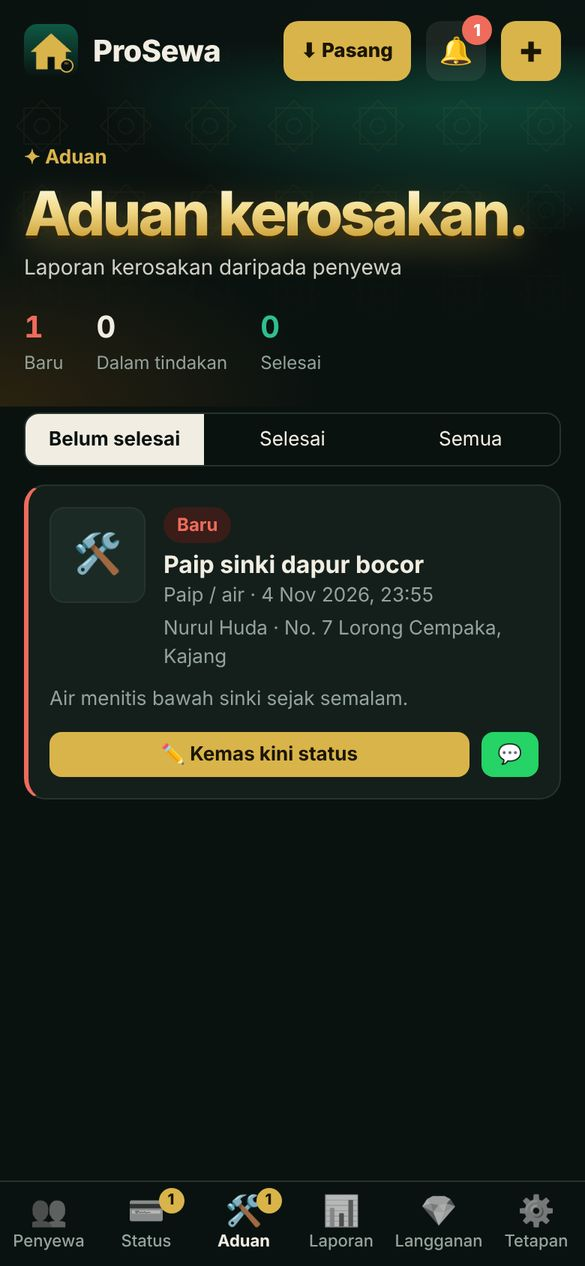
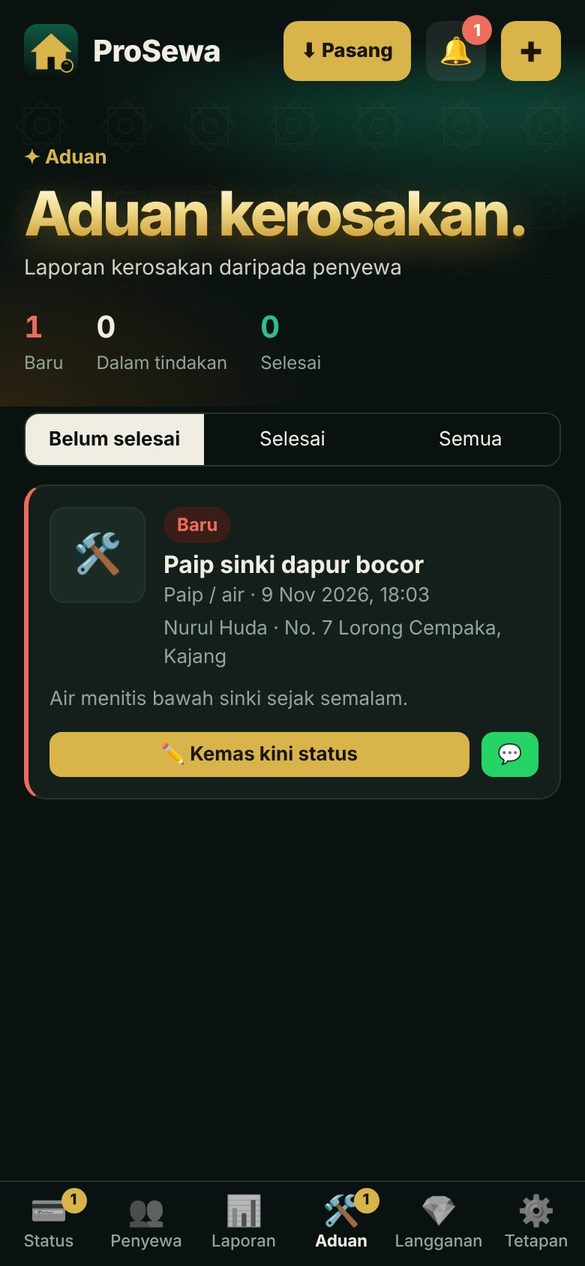
Manual, landing, captions & TikTok ads updated for latest features; What's new changelog popup in Settings (v2026.11.09)
Claude-Session: https://claude.ai/code/session_017f1VMKQwjxZcuJmQN7U4w8

diff --git a/index.html b/index.html
@@ -203,6 +203,7 @@ header .lang{margin-bottom:0}
 .finst{display:grid;grid-template-columns:1fr 1fr;gap:8px;margin:10px 0}.finst>div{background:var(--soft,rgba(255,255,255,.04));border:1px solid var(--line);border-radius:12px;padding:10px}
 .finst span{display:block;font-size:12px;color:var(--muted)}.finst b{display:block;font-size:17px;margin-top:2px}.finst b.g{color:var(--green)}.finst b.r{color:var(--red)}.finst em{font-style:normal;font-size:11.5px;color:var(--muted)}
 .finrep #taxrep{background:#fff;color:#111;border-radius:12px;padding:12px;font-size:12px;overflow-x:auto}
+.newdot{font-style:normal;background:var(--red,#e5484d);color:#fff;font:700 10.5px var(--f);padding:2px 7px;border-radius:999px;margin-left:8px;vertical-align:middle}
 header .hpill{height:38px;padding:0 14px;font-size:14px;border-radius:10px;display:inline-flex;align-items:center;gap:6px;flex:none}
 .pw{position:relative}.pw input{padding-right:50px}
 .pw .eye{position:absolute;right:4px;top:50%;transform:translateY(-50%);width:42px;height:38px;border:0;border-radius:8px;background:none;font-size:18px;cursor:pointer;opacity:.7}
@@ -472,7 +473,7 @@ const I18N_RX = [
   [/Kutipan (\d+)% daripada jangkaan/g, 'Collected $1% of expected'],
   [/Link (\S+) disalin/g, "$1's link copied"],
   [/Ditambah (\d+) hari/g, 'Added $1 days'],
-  [/Salam, /g, 'Hi, '],
+  [/Salam, /g, 'Hi, '], [/🆕 Apa yang baru · /g, "🆕 What's new · "],
   [/(\d+) penyewa, (\d+) rekod bayaran & resit, aduan, perbelanjaan, bil, rumah & bil berulang akan dipadam kekal\. Link penyewa lama tidak boleh dibuka lagi\./g, '$1 tenants, $2 payment & receipt records, requests, expenses, bills, properties & recurring bills will be permanently deleted. Old tenant links will stop working.'],
   [/PDF ada (\d+) halaman\. Hanya 2 halaman pertama disimpan\./g, 'The PDF has $1 pages. Only the first 2 pages are saved.'],
   [/Bil & utiliti (\d{4})/g, 'Bills & utilities $1'],
@@ -504,7 +505,7 @@ const I18N_RX = [
   [/Sewa (.+?) (RM [\d,.]+) belum dibayar\./g, 'Rent for $1 ($2) is unpaid.']
 ];
 Object.assign(I18N, {
-  'LAPORAN KUTIPAN SEWA': 'RENT COLLECTION REPORT', '💰 Laporan kewangan': '💰 Financial report', 'Tempoh': 'Period', 'Masuk (langganan)': 'Income (subscriptions)', 'Caj ToyyibPay': 'ToyyibPay fees', 'Bersih diterima': 'Net received', 'Belanja sistem': 'System expenses', 'Untung bersih': 'Net profit', 'bayaran': 'payments', 'rekod': 'records', 'auto': 'auto',
+  'LAPORAN KUTIPAN SEWA': 'RENT COLLECTION REPORT', 'BARU': 'NEW', '💰 Laporan kewangan': '💰 Financial report', 'Tempoh': 'Period', 'Masuk (langganan)': 'Income (subscriptions)', 'Caj ToyyibPay': 'ToyyibPay fees', 'Bersih diterima': 'Net received', 'Belanja sistem': 'System expenses', 'Untung bersih': 'Net profit', 'bayaran': 'payments', 'rekod': 'records', 'auto': 'auto',
   'Tukar kadar': 'Change rate', 'setiap transaksi berjaya.': 'per successful transaction.', '📊 Lihat laporan penuh': '📊 View full report', '+ Rekod belanja sistem': '+ Record system expense', 'LAPORAN KEWANGAN LANGGANAN': 'SUBSCRIPTION FINANCIAL REPORT', 'Senarai bayaran langganan': 'Subscription payments', 'Owner': 'Owner', 'Pakej': 'Plan', 'Rujukan': 'Reference', 'Caj': 'Fee', 'Bersih': 'Net', 'Belanja': 'Expenses', 'Bil.': 'No.',
   'Lanjutan percuma (RM0, tiada caj)': 'Free extensions (RM0, no fee)', 'Jenis': 'Type', 'Kategori': 'Category', 'Keterangan': 'Description', 'Kod promo': 'Promo code', 'Manual (Super Admin)': 'Manual (Super Admin)',
   'Caj ToyyibPay ialah anggaran berdasarkan kadar yang ditetapkan. Semak penyata ToyyibPay untuk angka sebenar.': 'ToyyibPay fees are estimates based on the set rate. Check your ToyyibPay statement for actual figures.',
@@ -773,7 +774,7 @@ const PLANS = [
   {id: 'yearly', name: 'Setahun', months: 12, price: 179.00, tag: 'Paling jimat'}
 ];
 const TRIAL_DAYS = 14;   // asal; Super Admin boleh ubah dalam panel #super (disimpan dalam config/app)
-const APP_VER = '2026.11.04';
+const APP_VER = '2026.11.09';
 const HEALTH_URL = 'https://asia-southeast1-kukusanmy.cloudfunctions.net/prosewaHealthNow';
 const PROMO_URL = 'https://asia-southeast1-kukusanmy.cloudfunctions.net/prosewaRedeemPromo';   // Cloud Function kod promo
 const TOYYIBPAY = {createBillUrl: 'https://asia-southeast1-kukusanmy.cloudfunctions.net/prosewaCreateBill'};   // Cloud Function (folder functions/)
@@ -1362,10 +1363,10 @@ const promoCaps = (l, code, days) => {
   const t = trialDays(), link = LANDING + (l === 'en' ? '?lang=en' : '');
   const cB = code ? `\n🎟 Kod promo: ${code} (+${days} hari percuma, sekali guna)` : '', cE = code ? `\n🎟 Promo code: ${code} (+${days} free days, single use)` : '';
   return l === 'en' ? [
-    ['WhatsApp / Facebook', `🏠 Own a rental house or room? Tired of chasing rent every month?\n\nProSewa helps landlords manage everything in one app:\n✅ Tenants upload payment proof, receipts are issued automatically\n🔔 Rent reminders & notifications straight to tenants' phones\n📊 Collection & tax reports (ready for e-Filing)\n🏠 Houses, rooms & vacancies, plus electricity, water & IWK bills\n📄 Tenancy, deposit & maintenance requests\n📱 Web + Android app, tenants don't need to log in\n\nTry it FREE for ${t} days 👉 ${link}${cE}`],
+    ['WhatsApp / Facebook', `🏠 Own a rental house or room? Tired of chasing rent every month?\n\nProSewa helps landlords manage everything in one app:\n✅ Tenants upload payment proof, you review & approve, receipts are issued automatically\n💰 Overpayments carried to next month automatically\n🔔 Rent reminders & notifications straight to tenants' phones\n📊 Collection & tax reports (ready for e-Filing)\n🏠 Houses, rooms & vacancies, plus electricity, water & IWK bills\n📄 Tenancy, deposit & maintenance requests\n📱 Web + Android app, tenants don't need to log in\n\nTry it FREE for ${t} days 👉 ${link}${cE}`],
     ['TikTok / Instagram', `Landlords, stop chasing rent on WhatsApp 😅 ProSewa: automatic receipts, rent reminders, vacant-room tracking, bills & tax reports. Free ${t}-day trial, link in bio 🏠${cE}\n\n#rentalproperty #landlordmalaysia #roomforrent #propertymalaysia #prosewa`],
     ['Ringkas / Short', `ProSewa: the rental management app. Automatic receipts, rent reminders & tax reports. Free for ${t} days: ${link}${cE}`]] : [
-    ['WhatsApp / Facebook', `🏠 Ada rumah / bilik sewa? Penat kejar sewa setiap bulan?\n\nProSewa bantu tuan rumah urus semuanya dalam satu app:\n✅ Penyewa muat naik bukti bayaran, resit keluar automatik\n🔔 Peringatan sewa & notifikasi terus ke phone penyewa\n📊 Laporan kutipan & cukai (sedia untuk e-Filing)\n🏠 Rumah, bilik & bilik kosong, serta bil elektrik, air & IWK\n📄 Kontrak, deposit & aduan kerosakan\n📱 Web + App Android, penyewa tak perlu login\n\nCuba PERCUMA ${t} hari 👉 ${link}${cB}`],
+    ['WhatsApp / Facebook', `🏠 Ada rumah / bilik sewa? Penat kejar sewa setiap bulan?\n\nProSewa bantu tuan rumah urus semuanya dalam satu app:\n✅ Penyewa muat naik bukti bayaran, anda semak & lulus, resit keluar automatik\n💰 Terlebih bayar dibawa ke bulan depan secara automatik\n🔔 Peringatan sewa & notifikasi terus ke phone penyewa\n📊 Laporan kutipan & cukai (sedia untuk e-Filing)\n🏠 Rumah, bilik & bilik kosong, serta bil elektrik, air & IWK\n📄 Kontrak, deposit & aduan kerosakan\n📱 Web + App Android, penyewa tak perlu login\n\nCuba PERCUMA ${t} hari 👉 ${link}${cB}`],
     ['TikTok / Instagram', `Tuan rumah, stop kejar sewa dalam WhatsApp 😅 ProSewa: resit automatik, peringatan sewa, bilik kosong, bil & laporan cukai. Percuma ${t} hari, link di bio 🏠${cB}\n\n#rumahsewa #tuanrumah #sewarumah #biliksewa #landlordmalaysia #prosewa`],
     ['Ringkas', `ProSewa: app urus rumah sewa. Resit automatik, peringatan sewa & laporan cukai. Percuma ${t} hari: ${link}${cB}`]];
 };
@@ -1665,7 +1666,8 @@ function oSettings() {
   const o = S.owner, s = S.settings;
   const perm = NPERM;
   return header('Tetapan', 'Tetapan.', o.name ? `${o.name}${o.phone ? ' · ' + o.phone : ''}` : 'Lengkapkan maklumat anda', {btns: ownerBtns()}) + `<div class="wrap"><div class="stack">
-    <div class="blk"><div class="card"><div class="acts" style="margin:0"><button class="btn" style="flex:1" data-act="manual">📘 Manual pengguna</button><button class="btn ghost" style="flex:1" data-act="reportForm">📮 Lapor masalah</button></div></div></div>
+    <div class="blk"><div class="card"><div class="acts" style="margin:0"><button class="btn" style="flex:1" data-act="manual">📘 Manual pengguna</button><button class="btn ghost" style="flex:1" data-act="reportForm">📮 Lapor masalah</button></div>
+      <button class="btn wide ghost" style="margin-top:8px;position:relative" data-act="whatsNew">🆕 Apa yang baru · v${APP_VER}${seenVer() !== APP_VER ? '<em class="newdot">BARU</em>' : ''}</button></div></div>
     <div class="blk"><div class="sec-h">Paparan</div><div class="card"><div class="switch">Bahasa ${langSeg()}</div><div class="switch">Tema ${themeSeg()}</div></div></div>
     <div class="blk"><div class="sec-h">Maklumat syarikat (untuk resit)</div><form class="card" data-form="company">
       <div class="logobox"><div id="logoPrev">${o.logo ? `<img src="${o.logo}" alt="logo">` : '<span class="muted">Tiada logo</span>'}</div>
@@ -1755,23 +1757,23 @@ function issueForm(id) {
 /* ===================== MANUAL PENGGUNA (owner) ===================== */
 const MANUAL = [
  ['🚀 Mula guna (5 minit)', '🚀 Getting started (5 minutes)',
-  '<ol><li>Pergi ke <b>Tetapan → Profil & maklumat bayaran</b>: isi nama, telefon, bank, no. akaun dan muat naik <b>QR DuitNow</b> anda. Penyewa nampak maklumat ini.</li><li>Di <b>Maklumat syarikat</b>: muat naik logo, nama & alamat syarikat, No. SSM/SST dan awalan no. resit. Ini muncul pada resit.</li><li>Di <b>Peringatan automatik</b>: pilih berapa hari sebelum tarikh bayar & jam notifikasi dihantar kepada penyewa.</li><li>Tekan <b>🔔 Aktifkan notifikasi phone</b>, kemudian <b>🧪 Uji notifikasi</b>.</li></ol>',
-  '<ol><li>Go to <b>Settings → Profile & payment details</b>: enter your name, phone, bank, account number and upload your <b>DuitNow QR</b>. Tenants see these details.</li><li>Under <b>Company details</b>: upload your logo, company name & address, SSM/SST numbers and receipt prefix. These appear on receipts.</li><li>Under <b>Automatic reminders</b>: choose how many days before the due date & what time tenants are notified.</li><li>Tap <b>🔔 Enable phone notifications</b>, then <b>🧪 Test notification</b>.</li></ol>'],
+  '<ol><li>Pergi ke <b>Tetapan → Profil & maklumat bayaran</b>: isi nama, telefon, bank, no. akaun dan muat naik <b>QR DuitNow</b> anda. Penyewa nampak maklumat ini.</li><li>Di <b>Maklumat syarikat</b>: muat naik logo, nama & alamat syarikat, No. SSM/SST dan awalan no. resit. Ini muncul pada resit.</li><li>Di <b>Peringatan automatik</b>: pilih berapa hari sebelum tarikh bayar & jam notifikasi dihantar kepada penyewa.</li><li>Tekan <b>🔔 Aktifkan notifikasi phone</b>, kemudian <b>🧪 Uji notifikasi</b>.</li></ol><p>Lepas setiap kemas kini, tekan <b>🆕 Apa yang baru</b> di Tetapan untuk lihat perubahan.</p>',
+  '<ol><li>Go to <b>Settings → Profile & payment details</b>: enter your name, phone, bank, account number and upload your <b>DuitNow QR</b>. Tenants see these details.</li><li>Under <b>Company details</b>: upload your logo, company name & address, SSM/SST numbers and receipt prefix. These appear on receipts.</li><li>Under <b>Automatic reminders</b>: choose how many days before the due date & what time tenants are notified.</li><li>Tap <b>🔔 Enable phone notifications</b>, then <b>🧪 Test notification</b>.</li></ol><p>After every update, tap <b>🆕 What\'s new</b> in Settings to see the changes.</p>'],
  ['👥 Tambah penyewa & hantar link', '👥 Add tenants & send their link',
-  '<ol><li>Tekan butang <b>+</b> di atas. Isi nama, telefon, alamat (rumah / bilik), sewa, deposit, tarikh bayar, tarikh mula & <b>tamat kontrak</b>.</li><li>Selepas simpan, tekan <b>Hantar link via WhatsApp</b>. Penyewa cuma buka link itu, <b>tiada login</b>.</li><li>Penyewa Android boleh pasang <b>APK ProSewa Penyewa</b> dan tampal link sekali sahaja.</li><li>Link tersebar? Tekan 🔗 → <b>Tukar link</b>. Link lama terus tidak boleh digunakan.</li></ol>',
-  '<ol><li>Tap the <b>+</b> button at the top. Enter name, phone, address (house / room), rent, deposit, due day, start date & <b>tenancy end</b>.</li><li>After saving, tap <b>Send link via WhatsApp</b>. Tenants just open the link, <b>no login</b>.</li><li>Android tenants can install the <b>ProSewa Tenant APK</b> and paste the link once.</li><li>Link leaked? Tap 🔗 → <b>Change link</b>. The old link stops working immediately.</li></ol>'],
+  '<ol><li>Tekan butang <b>+</b> di atas. Isi nama, telefon, alamat (rumah / bilik), sewa, deposit, tarikh bayar, tarikh mula & <b>tamat kontrak</b>.</li><li>Selepas simpan, tekan <b>Hantar link via WhatsApp</b>. Penyewa cuma buka link itu, <b>tiada login</b>.</li><li>Tab <b>Penyewa</b> tunjuk senarai ringkas dengan status besar <b>DIBAYAR / BELUM BAYAR</b>. Tekan nama penyewa untuk butiran, sejarah 6 bulan, link, edit, perbaharui & tamatkan sewa.</li><li>Penyewa Android boleh pasang <b>APK ProSewa Penyewa</b> dan tampal link sekali sahaja.</li><li>Link tersebar? Buka penyewa → <b>Tukar link</b>. Link lama terus tidak boleh digunakan.</li></ol>',
+  '<ol><li>Tap the <b>+</b> button at the top. Enter name, phone, address (house / room), rent, deposit, due day, start date & <b>tenancy end</b>.</li><li>After saving, tap <b>Send link via WhatsApp</b>. Tenants just open the link, <b>no login</b>.</li><li>The <b>Tenants</b> tab shows a compact list with a big <b>PAID / UNPAID</b> status. Tap a tenant for details, 6-month history, link, edit, renew & end tenancy.</li><li>Android tenants can install the <b>ProSewa Tenant APK</b> and paste the link once.</li><li>Link leaked? Open the tenant → <b>Change link</b>. The old link stops working immediately.</li></ol>'],
  ['🏘 Rumah & bilik (Hartanah)', '🏘 Houses & rooms (Properties)',
   '<ol><li>Di tab <b>Penyewa</b>, tekan <b>🏠 Hartanah</b> → <b>Tambah rumah</b>. Pilih <b>Sewa bilik</b> (senaraikan bilik & sewa) atau <b>Seluruh rumah / unit</b>.</li><li>Bilik tanpa penyewa ditanda <b>kosong</b>, dengan bilangan hari dan sewa yang hilang sebulan. Tekan <b>+ Masukkan penyewa</b> terus dari bilik itu.</li><li>Penyewa sedia ada: tekan ✏ Edit dan pilih <b>Rumah / bilik</b>.</li><li>Bila sewa ditamatkan (🚪), bilik terus jadi kosong. Laporan cukai dikira ikut rumah.</li></ol><p>Pilihan sahaja: penyewa tanpa rumah tetap berfungsi seperti biasa.</p>',
   '<ol><li>In the <b>Tenants</b> tab, tap <b>🏠 Properties</b> → <b>Add property</b>. Choose <b>Room rental</b> (list the rooms & rent) or <b>Whole house / unit</b>.</li><li>Rooms without a tenant are marked <b>vacant</b>, with the number of days and the rent lost per month. Tap <b>+ Add tenant</b> straight from that room.</li><li>Existing tenants: tap ✏ Edit and choose a <b>Property / room</b>.</li><li>When a tenancy ends (🚪), the room becomes vacant automatically. The tax report is grouped by property.</li></ol><p>Optional: tenants without a property keep working as usual.</p>'],
  ['💳 Terima bayaran & resit', '💳 Payments & receipts',
-  '<ol><li>Penyewa bayar ke akaun / QR anda dan muat naik slip (<b>gambar atau PDF</b> dari app bank). Anda dapat notifikasi <b>🧾 Bukti bayaran baru</b>.</li><li>Buka tab <b>Status</b> → semak gambar → <b>✓ Lulus & hantar resit</b> atau <b>Tolak</b> (dengan sebab).</li><li>Penyewa bayar tunai / tak guna app? Tekan <b>💵 Rekod bayaran</b> pada kad penyewa dan muat naik slip sendiri (gambar atau PDF).</li><li>Resit boleh disimpan sebagai PDF atau dihantar melalui WhatsApp. No. resit berturutan dan tidak berulang.</li><li>Tersilap? Buka resit → <b>Batal resit</b> (dengan sebab). Resit sah tidak boleh dipadam, untuk rekod audit.</li></ol>',
-  '<ol><li>Tenants pay to your account / QR and upload the slip (<b>image or PDF</b> from their bank app). You get a <b>🧾 New payment proof</b> notification.</li><li>Open the <b>Status</b> tab → check the image → <b>✓ Approve & send receipt</b> or <b>Reject</b> (with a reason).</li><li>Tenant pays cash / doesn\'t use the app? Tap <b>💵 Record payment</b> on the tenant card and upload the slip yourself (image or PDF).</li><li>Receipts can be saved as PDF or sent via WhatsApp. Receipt numbers run in sequence and are never reused.</li><li>Made a mistake? Open the receipt → <b>Void receipt</b> (with a reason). Valid receipts cannot be deleted, for audit purposes.</li></ol>'],
+  '<ol><li>Penyewa bayar ke akaun / QR anda dan muat naik slip (<b>gambar atau PDF</b> dari app bank). Anda dapat notifikasi <b>🧾 Bukti bayaran baru</b>.</li><li>Buka tab <b>Status</b> (tab pertama) → tekan <b>🔍 Semak bayaran</b>. Semak bukti, jumlah berbanding sewa, kaedah & rujukan. Tanda <b>Saya telah semak bukti ini</b>, kemudian <b>Luluskan</b>, atau <b>Tolak</b> (dengan sebab).</li><li>Penyewa tak guna app dan cuma hantar bukti kepada anda? Di tab Status, tekan <b>📝 Bayaran manual</b> pada penyewa itu, pilih <b>Kaedah bayaran penyewa</b> (Pindahan bank, Touch \'n Go, Deposit tunai bank, Tunai) dan muat naik slip.</li><li><b>Terbayar lebih?</b> Lebihan dibawa ke bulan depan secara automatik sebagai <b>kredit</b>. Penyewa nampak nota bahawa lebihan akan ditolak bulan depan.</li><li>Resit boleh disimpan sebagai PDF atau dihantar melalui WhatsApp. No. resit berturutan dan tidak berulang.</li><li>Tersilap? Buka resit → <b>Batal resit</b> (dengan sebab). Resit sah tidak boleh dipadam, untuk rekod audit.</li></ol>',
+  '<ol><li>Tenants pay to your account / QR and upload the slip (<b>image or PDF</b> from their bank app). You get a <b>🧾 New payment proof</b> notification.</li><li>Open the <b>Status</b> tab (first tab) → tap <b>🔍 Review payment</b>. Check the proof, the amount against the rent, the method & reference. Tick <b>I have checked this proof</b>, then <b>Approve</b>, or <b>Reject</b> (with a reason).</li><li>Tenant doesn\'t use the app and just sends you proof? In the Status tab, tap <b>📝 Manual payment</b> for that tenant, choose the <b>Payment method by tenant</b> (Bank transfer, Touch \'n Go, Cash bank deposit, Cash by hand) and upload the slip.</li><li><b>Overpaid?</b> The extra is carried to next month automatically as <b>credit</b>. The tenant sees a note that it will be deducted next month.</li><li>Receipts can be saved as PDF or sent via WhatsApp. Receipt numbers run in sequence and are never reused.</li><li>Made a mistake? Open the receipt → <b>Void receipt</b> (with a reason). Valid receipts cannot be deleted, for audit purposes.</li></ol>'],
  ['🔔 Peringatan & notifikasi', '🔔 Reminders & notifications',
-  '<ul><li><b>Automatik:</b> penyewa dapat peringatan sebelum tarikh bayar dan bila sewa tertunggak (ikut Tetapan).</li><li><b>Manual:</b> di tab Status, tekan <b>🔔 Ingatkan</b> (terus) atau <b>⏰ Jadual</b> (pilih tarikh & masa).</li><li>Notifikasi sampai walaupun app ditutup. Ikon app tunjuk <b>lencana</b> bila ada perkara belum disemak.</li><li>Tiada notifikasi? Tetapan → <b>🧪 Uji notifikasi</b>, dan pastikan notifikasi ProSewa dibenarkan dalam Tetapan phone.</li></ul>',
-  '<ul><li><b>Automatic:</b> tenants get a reminder before the due date and when rent is overdue (based on Settings).</li><li><b>Manual:</b> in the Status tab, tap <b>🔔 Remind</b> (now) or <b>⏰ Schedule</b> (pick a date & time).</li><li>Notifications arrive even when the app is closed. The app icon shows a <b>badge</b> when something needs your attention.</li><li>No notifications? Settings → <b>🧪 Test notification</b>, and make sure ProSewa notifications are allowed in your phone settings.</li></ul>'],
+  '<ul><li><b>Automatik:</b> penyewa dapat peringatan sebelum tarikh bayar dan bila sewa tertunggak (ikut Tetapan).</li><li><b>Manual:</b> di tab Status, tekan <b>🔔 Ingatkan</b> pada penyewa yang belum bayar. Notifikasi terus dihantar ke phone penyewa.</li><li>Notifikasi sampai walaupun app ditutup. Ikon app tunjuk <b>lencana</b> bila ada perkara belum disemak.</li><li>Tiada notifikasi? Tetapan → <b>🧪 Uji notifikasi</b>, dan pastikan notifikasi ProSewa dibenarkan dalam Tetapan phone.</li></ul>',
+  '<ul><li><b>Automatic:</b> tenants get a reminder before the due date and when rent is overdue (based on Settings).</li><li><b>Manual:</b> in the Status tab, tap <b>🔔 Remind</b> on an unpaid tenant. A notification goes straight to their phone.</li><li>Notifications arrive even when the app is closed. The app icon shows a <b>badge</b> when something needs your attention.</li><li>No notifications? Settings → <b>🧪 Test notification</b>, and make sure ProSewa notifications are allowed in your phone settings.</li></ul>'],
  ['📄 Kontrak & deposit', '📄 Tenancy & deposit',
-  '<ul><li>Isi <b>Tamat kontrak</b> pada penyewa. 30 hari sebelum tamat, amaran keluar di tab Penyewa dan notifikasi dihantar.</li><li>Tekan <b>📄 Perbaharui</b>: pilih tarikh tamat baru & sewa baru (berkuat kuasa bulan depan).</li><li>Penyewa keluar? Tekan <b>🚪</b> → isi tarikh keluar, tolak tunggakan & potongan (pembersihan, kerosakan, bil). Sistem kira baki deposit dan jana <b>Penyata Deposit</b> yang penyewa boleh lihat.</li></ul>',
-  '<ul><li>Fill in <b>Tenancy end</b> for each tenant. 30 days before it ends, a warning appears in the Tenants tab and notifications are sent.</li><li>Tap <b>📄 Renew</b>: choose the new end date & new rent (applies from next month).</li><li>Tenant moving out? Tap <b>🚪</b> → enter the move-out date, deduct arrears & charges (cleaning, damage, bills). The system calculates the deposit balance and creates a <b>Deposit Statement</b> the tenant can view.</li></ul>'],
+  '<ul><li>Isi <b>Tamat kontrak</b> pada penyewa. 30 hari sebelum tamat, amaran keluar di tab Penyewa dan notifikasi dihantar.</li><li>Buka penyewa → <b>📄 Perbaharui</b>: pilih tarikh tamat baru & sewa baru (berkuat kuasa bulan depan).</li><li>Penyewa keluar? Buka penyewa → <b>🚪 Tamatkan sewa</b> → isi tarikh keluar, tolak tunggakan & potongan (pembersihan, kerosakan, bil). Sistem kira baki deposit dan jana <b>Penyata Deposit</b> yang penyewa boleh lihat.</li></ul>',
+  '<ul><li>Fill in <b>Tenancy end</b> for each tenant. 30 days before it ends, a warning appears in the Tenants tab and notifications are sent.</li><li>Open the tenant → <b>📄 Renew</b>: choose the new end date & new rent (applies from next month).</li><li>Tenant moving out? Open the tenant → <b>🚪 End tenancy</b> → enter the move-out date, deduct arrears & charges (cleaning, damage, bills). The system calculates the deposit balance and creates a <b>Deposit Statement</b> the tenant can view.</li></ul>'],
  ['🛠 Aduan kerosakan', '🛠 Maintenance requests',
   '<ul><li>Penyewa hantar aduan (kategori, penerangan, gambar) dari tab <b>Aduan</b> di app mereka.</li><li>Anda dapat notifikasi. Buka tab <b>Aduan</b> → <b>Kemas kini status</b> (Dalam tindakan / Selesai) dan tulis nota, contohnya tarikh tukang datang.</li><li>Penyewa dimaklumkan setiap kali status berubah.</li></ul>',
   '<ul><li>Tenants send requests (category, description, photo) from the <b>Requests</b> tab in their app.</li><li>You get notified. Open the <b>Requests</b> tab → <b>Update status</b> (In progress / Resolved) and add a note, e.g. when the repairer will come.</li><li>Tenants are notified every time the status changes.</li></ul>'],
@@ -1779,15 +1781,76 @@ const MANUAL = [
   '<ul><li><b>Kutipan sewa:</b> jangkaan vs diterima setiap bulan, tunggakan ikut penyewa. Simpan sebagai PDF atau CSV (Excel).</li><li><b>Cukai & Perbelanjaan:</b> tekan <b>+ Perbelanjaan</b> untuk rekod cukai pintu, cukai tanah, insurans, pembaikan dan lain-lain (boleh lampir resit).</li><li><b>💡 Bil & utiliti:</b> tekan <b>Rekod bil bulan ini</b> untuk elektrik, air, IWK, internet sekali gus ikut rumah. Bil tetap (IWK, maintenance, internet) tetapkan sekali di <b>Bil berulang</b>, dan sistem rekod setiap bulan secara automatik.</li><li>Angka <b>Pendapatan sewa bersih</b> ialah rujukan untuk e-Filing LHDN. Sahkan perbelanjaan yang dibenarkan dengan LHDN / ejen cukai.</li></ul>',
   '<ul><li><b>Rent collection:</b> expected vs received each month, arrears by tenant. Save as PDF or CSV (Excel).</li><li><b>Tax & Expenses:</b> tap <b>+ Expense</b> to record assessment tax, quit rent, insurance, repairs and more (you can attach receipts).</li><li><b>💡 Bills & utilities:</b> tap <b>Record this month\'s bills</b> to enter electricity, water, IWK and internet at once, per property. Set fixed bills (IWK, maintenance, internet) once under <b>Recurring bills</b> and the system records them every month automatically.</li><li>The <b>Net rental income</b> figure is a reference for LHDN e-Filing. Confirm allowable expenses with LHDN / your tax agent.</li></ul>'],
  ['💎 Langganan & kod promo', '💎 Subscription & promo codes',
-  '<ul><li>Tab <b>Langganan</b> tunjuk baki hari. Pilih pakej dan bayar melalui ToyyibPay (FPX / DuitNow). Hari baru disambung selepas tarikh tamat semasa.</li><li>Ada kod promo? Tampal di <b>🎟 Ada kod promo?</b> dan tekan <b>Guna</b>. Setiap kod sekali guna.</li><li>Jika langganan tamat, anda dan penyewa tidak dapat buka app sehingga bayaran dibuat. Data anda kekal selamat.</li></ul>',
-  '<ul><li>The <b>Subscription</b> tab shows the days left. Choose a plan and pay via ToyyibPay (FPX / DuitNow). New days are added after the current end date.</li><li>Have a promo code? Paste it under <b>🎟 Have a promo code?</b> and tap <b>Apply</b>. Each code can be used once.</li><li>If the subscription ends, you and your tenants cannot open the app until payment is made. Your data stays safe.</li></ul>'],
+  '<ul><li>Tab <b>Langganan</b> tunjuk baki hari. Pilih pakej dan bayar melalui ToyyibPay (FPX online banking atau imbas DuitNow QR). Hari baru disambung selepas tarikh tamat semasa.</li><li>Ada kod promo? Tampal di <b>🎟 Ada kod promo?</b> dan tekan <b>Guna</b>. Setiap kod sekali guna.</li><li>Jika langganan tamat, anda dan penyewa tidak dapat buka app sehingga bayaran dibuat. Data anda kekal selamat.</li></ul>',
+  '<ul><li>The <b>Subscription</b> tab shows the days left. Choose a plan and pay via ToyyibPay (FPX online banking or scan DuitNow QR). New days are added after the current end date.</li><li>Have a promo code? Paste it under <b>🎟 Have a promo code?</b> and tap <b>Apply</b>. Each code can be used once.</li><li>If the subscription ends, you and your tenants cannot open the app until payment is made. Your data stays safe.</li></ul>'],
  ['📱 App Android, tablet & laptop', '📱 Android app, tablet & laptop',
   '<ul><li>Muat turun <b>ProSewa Admin</b> (owner) dan <b>ProSewa Penyewa</b> di prosewa.web.app/download.html. Pasang terus atas versi lama untuk kemas kini.</li><li>Di laptop / iPhone: buka prosewa.web.app dan tekan <b>⬇ Pasang</b>.</li><li>Dalam APK, log masuk guna emel & kata laluan. Akaun Google: tetapkan kata laluan dahulu di versi web (Tetapan → Keselamatan).</li></ul>',
   '<ul><li>Download <b>ProSewa Admin</b> (owner) and <b>ProSewa Tenant</b> at prosewa.web.app/download.html. Install over the old version to update.</li><li>On a laptop / iPhone: open prosewa.web.app and tap <b>⬇ Install</b>.</li><li>In the APK, sign in with email & password. Google accounts: set a password first on the web version (Settings → Security).</li></ul>'],
+ ['🔐 Akaun, log keluar & padam data', '🔐 Account, sign out & delete data',
+  '<ul><li><b>Lupa kata laluan:</b> di skrin log masuk, tekan <b>Lupa kata laluan?</b>. Semak Inbox <b>dan folder Spam</b> untuk emel reset.</li><li><b>Tukar kata laluan:</b> Tetapan → Keselamatan. Anda akan diminta kata laluan semasa dahulu.</li><li><b>Log keluar</b> sentiasa minta pengesahan, supaya tidak tertekan secara tidak sengaja.</li><li><b>Mula semula dari kosong:</b> Tetapan → <b>⚠ Zon bahaya → Padam semua data</b>. Taip PADAM dan kata laluan log masuk. Semua penyewa, bayaran, laporan, rumah & bil dipadam dan link penyewa lama tidak lagi sah. No. resit diteruskan, kecuali anda tanda <b>Mula semula no. resit dari 000001</b>. Tindakan ini <b>tidak boleh dibatalkan</b>.</li></ul>',
+  '<ul><li><b>Forgot password:</b> on the sign-in screen, tap <b>Forgot password?</b>. Check your Inbox <b>and Spam folder</b> for the reset email.</li><li><b>Change password:</b> Settings → Security. You will be asked for your current password.</li><li><b>Sign out</b> always asks for confirmation, so you don\'t tap it by accident.</li><li><b>Start fresh:</b> Settings → <b>⚠ Danger zone → Delete all data</b>. Type PADAM and your sign-in password. All tenants, payments, reports, properties & bills are deleted and old tenant links stop working. Receipt numbers continue unless you tick <b>Restart receipt numbers</b>. This <b>cannot be undone</b>.</li></ul>'],
  ['⚠ Jika ada masalah', '⚠ If something goes wrong',
   '<ul><li>Jika sistem ada gangguan, <b>jalur amaran</b> muncul di atas skrin dan hilang sendiri bila pulih. Data anda selamat.</li><li>Tiada internet? Jalur 📡 muncul. App akan muat semula data bila sambungan kembali.</li><li>Masih bermasalah? Tekan <b>📮 Lapor masalah</b> di bawah. Laporan terus sampai kepada pasukan ProSewa.</li></ul>',
   '<ul><li>If the system has a disruption, a <b>warning bar</b> appears at the top of the screen and disappears when it recovers. Your data is safe.</li><li>No internet? A 📡 bar appears. The app reloads data when the connection is back.</li><li>Still having trouble? Tap <b>📮 Report a problem</b> below. Your report goes straight to the ProSewa team.</li></ul>']
 ];
+/* ===================== APA YANG BARU (changelog) — tambah entri di atas setiap kali update ===================== */
+const CHANGELOG = [
+ {v: '2026.11.09', bm: [
+   'Tab <b>Status</b> kini tab pertama, <b>Penyewa</b> tab kedua.',
+   '<b>🔍 Semak bayaran</b> sebelum lulus: bukti besar, jumlah berbanding sewa, lebih / kurang. Butang Luluskan aktif selepas tanda "Saya telah semak".',
+   '<b>Terbayar lebih</b> dibawa ke bulan depan sebagai kredit. Penyewa nampak nota lebihan akan ditolak bulan depan.',
+   'Senarai penyewa lebih ringkas dengan status besar <b>DIBAYAR / BELUM BAYAR</b>. Tekan nama untuk popup butiran & tindakan.',
+   '"Tunai" ditukar kepada <b>📝 Bayaran manual</b>, dengan pilihan Kaedah bayaran penyewa: Pindahan bank, Touch \'n Go, Deposit tunai bank, Tunai (tangan).',
+   'Hanya butang <b>🔔 Ingatkan</b> (Jadual dibuang). "Laporan ikut rumah" dibuang.',
+   'Paparan penyewa: <b>✓ DIBAYAR</b> lebih besar, "Sila bayar sebelum" disembunyi bila sudah bayar.',
+   '<b>Padam semua data</b> untuk mula semula (Tetapan → Zon bahaya), disahkan dengan kata laluan log masuk.',
+   'Pengesahan sebelum <b>log keluar</b>.',
+   'Bayaran langganan ToyyibPay kini boleh pilih <b>DuitNow QR</b>.',
+   'Lupa kata laluan: mesej lebih jelas (semak folder Spam).',
+   'Butang <b>🆕 Apa yang baru</b> ini di Tetapan.'],
+  en: [
+   'The <b>Status</b> tab is now first, <b>Tenants</b> second.',
+   '<b>🔍 Review payment</b> before approving: large proof, amount vs rent, over / short. Approve unlocks after ticking "I have checked".',
+   '<b>Overpayments</b> carry to next month as credit. Tenants see a note that the extra will be deducted next month.',
+   'Compact tenant list with a big <b>PAID / UNPAID</b> status. Tap a name for a details & actions popup.',
+   '"Cash" is now <b>📝 Manual payment</b>, with Payment method by tenant: Bank transfer, Touch \'n Go, Cash bank deposit, Cash by hand.',
+   'Only a <b>🔔 Remind</b> button (Schedule removed). "Report by property" removed.',
+   'Tenant view: bigger <b>✓ PAID</b>, "Please pay by" hidden once paid.',
+   '<b>Delete all data</b> to start fresh (Settings → Danger zone), confirmed with your sign-in password.',
+   'Confirmation before <b>signing out</b>.',
+   'ToyyibPay subscription payments can now use <b>DuitNow QR</b>.',
+   'Forgot password: clearer message (check your Spam folder).',
+   'This <b>🆕 What\'s new</b> button in Settings.']},
+ {v: '2026.11.04', bm: [
+   '<b>💡 Bil & utiliti</b>: rekod elektrik, air, IWK & internet ikut rumah, dan bil berulang automatik setiap bulan.',
+   'Muat naik slip & resit dalam bentuk <b>PDF</b> (selain gambar).',
+   '<b>🏘 Hartanah</b>: rumah & bilik, bilik kosong, kadar penghunian & sewa yang hilang.',
+   'Pemantauan sistem: jalur amaran bila ada gangguan, dan <b>📮 Lapor masalah</b>.',
+   '<b>📘 Manual pengguna</b> dalam Tetapan.',
+   'Tab Aduan dipindahkan ke sebelah Langganan. Tukar kata laluan kini minta kata laluan semasa.'],
+  en: [
+   '<b>💡 Bills & utilities</b>: record electricity, water, IWK & internet per property, with recurring bills every month.',
+   'Upload slips & receipts as <b>PDF</b> (as well as images).',
+   '<b>🏘 Properties</b>: houses & rooms, vacancies, occupancy rate & lost rent.',
+   'System monitoring: a warning bar during disruptions, and <b>📮 Report a problem</b>.',
+   '<b>📘 User manual</b> in Settings.',
+   'Requests tab moved next to Subscription. Changing your password now asks for the current one.']},
+ {v: 'Sebelum ini', vEn: 'Earlier', bm: [
+   'App Android <b>ProSewa Admin</b> & <b>ProSewa Penyewa</b>, notifikasi push & lencana ikon app.',
+   'Kod promo langganan, kontrak & pembaharuan, penyata deposit, aduan kerosakan.',
+   'Owner boleh rekod bayaran dengan slip sendiri. Laporan BM / EN yang konsisten.'],
+  en: [
+   'Android apps <b>ProSewa Admin</b> & <b>ProSewa Tenant</b>, push notifications & app icon badges.',
+   'Subscription promo codes, tenancy renewals, deposit statements, maintenance requests.',
+   'Owners can record payments with their own slip. Consistent BM / EN reports.']}];
+const seenVer = () => { try { return localStorage.getItem('prosewa_seenVer') || ''; } catch (e) { return ''; } };
+function whatsNew() {
+  const en = LANG === 'en';
+  try { localStorage.setItem('prosewa_seenVer', APP_VER); } catch (e) {}
+  openModal(en ? '🆕 What\'s new' : '🆕 Apa yang baru', `<div class="manual" data-raw>${CHANGELOG.map((c, i) => `<details ${i === 0 ? 'open' : ''}><summary>${/^\d/.test(c.v) ? 'v' + c.v : (en ? c.vEn : c.v)}${c.v === APP_VER ? (en ? ' · current' : ' · semasa') : ''}</summary><ul>${(en ? c.en : c.bm).map(x => `<li>${x}</li>`).join('')}</ul></details>`).join('')}</div>
+    <div class="acts" style="margin-top:10px"><button class="btn" style="flex:1" data-act="manual">📘 ${en ? 'User manual' : 'Manual pengguna'}</button></div>`);
+  const b = document.querySelector('[data-act=whatsNew] .newdot'); if (b) b.remove();
+}
 function manualModal() {
   const en = LANG === 'en';
   openModal(en ? '📘 User Manual' : '📘 Manual Pengguna', `<div class="manual" data-raw><p style="margin-top:0">${en ? 'A quick guide to every part of ProSewa. Tap a topic to open it.' : 'Panduan ringkas setiap bahagian ProSewa. Tekan topik untuk buka.'}</p>
@@ -2300,7 +2363,7 @@ const ACTIONS = {
   renewForm: id => renewForm(id), endForm: id => endForm(id), depStatement: id => depStatement(id),
   depPdf: id => { const t = S.tenants.find(x => x.id === id) || S.t; printHTML(depStatementHTML(t), tr('Penyata Deposit') + ' ' + t.name); },
   promoFilter: id => { S.promoFilter = id; renderSuper(); },
-  promoKit: () => promoKit(),
+  promoKit: () => promoKit(), whatsNew: () => whatsNew(),
   finView: () => finView(), finCsv: () => finCsv(), feeForm: () => feeForm(), sysExpForm: () => sysExpForm(),
   finPdf: () => printHTML(finReportHTML(), tr('Laporan Kewangan') + ' ' + finData().per),
   sysExpDel: async id => { if (!confirm(tr('Padam rekod belanja ini?'))) return; await API.delSysExp(id); S.sysExp = S.sysExp.filter(e => e.id !== id); closeModal(); toast(tr('Dipadam.')); renderSuper(); },

diff --git a/promo.html b/promo.html
@@ -140,7 +140,7 @@ footer a{color:var(--gold);text-decoration:none}
   <div class="sh"><span class="k" data-bm>Ciri-ciri</span><span class="k" data-en>Features</span><h2><span data-bm>Semua yang tuan rumah perlukan, dalam satu app</span><span data-en>Everything a landlord needs, in one app</span></h2></div>
   <div class="feat">
     <div><i>👥</i><b data-bm>Link khas penyewa</b><b data-en>Private tenant link</b><span data-bm>Setiap penyewa ada link sendiri. Tiada login, terus boleh guna atau pasang app.</span><span data-en>Each tenant gets their own link. No login, use it or install the app instantly.</span></div>
-    <div><i>🧾</i><b data-bm>Resit automatik</b><b data-en>Automatic receipts</b><span data-bm>Penyewa muat naik slip (gambar atau PDF bank). Anda lulus, resit bernombor dengan logo syarikat terus dihantar.</span><span data-en>Tenants upload the slip (image or bank PDF). You approve and a numbered receipt with your logo is sent instantly.</span></div>
+    <div><i>🧾</i><b data-bm>Resit automatik</b><b data-en>Automatic receipts</b><span data-bm>Penyewa muat naik slip (gambar atau PDF bank). Anda semak & lulus, resit bernombor dengan logo syarikat terus dihantar. Terbayar lebih? Baki dibawa ke bulan depan automatik.</span><span data-en>Tenants upload the slip (image or bank PDF). You review & approve and a numbered receipt with your logo is sent instantly. Overpaid? The extra carries to next month automatically.</span></div>
     <div><i>🔔</i><b data-bm>Peringatan & notifikasi</b><b data-en>Reminders & notifications</b><span data-bm>Peringatan sewa automatik ke phone penyewa, dan makluman terus kepada anda.</span><span data-en>Automatic rent reminders to tenants' phones, and instant alerts to you.</span></div>
     <div><i>📊</i><b data-bm>Laporan kutipan & cukai</b><b data-en>Collection & tax reports</b><span data-bm>Kutipan bulanan, tunggakan, perbelanjaan, bil elektrik / air / IWK dan pendapatan bersih untuk e-Filing. PDF & Excel.</span><span data-en>Monthly collection, arrears, expenses, electricity / water / IWK bills and net income for e-Filing. PDF & Excel.</span></div>
     <div><i>📄</i><b data-bm>Kontrak & deposit</b><b data-en>Tenancy & deposit</b><span data-bm>Amaran kontrak hampir tamat, pembaharuan dan penyata pulangan deposit.</span><span data-en>Tenancy expiry alerts, renewals and deposit refund statements.</span></div>
@@ -154,7 +154,7 @@ footer a{color:var(--gold);text-decoration:none}
 <section><div class="w">
   <div class="sh"><span class="k" data-bm>Lihat sendiri</span><span class="k" data-en>See it</span><h2><span data-bm>Ringkas, jelas, mudah digunakan</span><span data-en>Simple, clear and easy to use</span></h2></div>
   <div class="gal">
-    <figure><img src="shots/owner-penyewa.jpg" alt="" loading="lazy"><figcaption data-bm>Senarai penyewa & status bayaran</figcaption><figcaption data-en>Tenant list & payment status</figcaption></figure>
+    <figure><img src="shots/owner-penyewa.jpg" alt="" loading="lazy"><figcaption data-bm>Senarai penyewa: DIBAYAR / BELUM BAYAR</figcaption><figcaption data-en>Tenant list: PAID / UNPAID</figcaption></figure>
     <figure><img src="shots/owner-status.jpg" alt="" loading="lazy"><figcaption data-bm>Semak & lulus bukti bayaran</figcaption><figcaption data-en>Review & approve payment proofs</figcaption></figure>
     <figure><img src="shots/resit.jpg" alt="" loading="lazy"><figcaption data-bm>Resit automatik dengan logo anda</figcaption><figcaption data-en>Automatic receipt with your logo</figcaption></figure>
     <figure><img src="shots/owner-laporan.jpg" alt="" loading="lazy"><figcaption data-bm>Laporan kutipan tahunan</figcaption><figcaption data-en>Yearly collection report</figcaption></figure>
@@ -186,7 +186,7 @@ footer a{color:var(--gold);text-decoration:none}
 <section id="harga"><div class="w">
   <div class="sh"><span class="k" data-bm>Harga</span><span class="k" data-en>Pricing</span><h2><span data-bm>Satu harga, penyewa tanpa had</span><span data-en>One price, unlimited tenants</span></h2><p><span data-bm>Mula dengan percubaan percuma <b class="td">14</b> hari. Tiada kad kredit diperlukan.</span><span data-en>Start with a <b class="td">14</b>-day free trial. No credit card needed.</span></p></div>
   <div class="price" id="plans"></div>
-  <p class="note"><span data-bm>Bayaran selamat melalui ToyyibPay (FPX online banking · DuitNow). Ada kod promo? Masukkan di tab Langganan selepas daftar.</span><span data-en>Secure payment via ToyyibPay (FPX online banking · DuitNow). Have a promo code? Enter it in the Subscription tab after signing up.</span></p>
+  <p class="note"><span data-bm>Bayaran selamat melalui ToyyibPay (FPX online banking · DuitNow QR). Ada kod promo? Masukkan di tab Langganan selepas daftar.</span><span data-en>Secure payment via ToyyibPay (FPX online banking · DuitNow QR). Have a promo code? Enter it in the Subscription tab after signing up.</span></p>
 </div></section>
 
 <section><div class="w">
@@ -194,7 +194,8 @@ footer a{color:var(--gold);text-decoration:none}
   <div class="faq">
     <details><summary><span data-bm>Penyewa perlu daftar atau download app?</span><span data-en>Do tenants need to sign up or download an app?</span></summary><p data-bm>Tidak. Penyewa cuma buka link khas yang anda hantar. Mereka boleh pasang sebagai app (Android APK atau dari browser) jika mahu.</p><p data-en>No. Tenants just open the private link you send. They can install it as an app (Android APK or from the browser) if they want.</p></details>
     <details><summary><span data-bm>Duit sewa masuk ke mana?</span><span data-en>Where does the rent money go?</span></summary><p data-bm>Terus ke akaun bank anda sendiri. Penyewa bayar seperti biasa (DuitNow, pindahan bank, QR) dan muat naik slip. ProSewa tidak memegang wang anda.</p><p data-en>Straight to your own bank account. Tenants pay as usual (DuitNow, bank transfer, QR) and upload the slip. ProSewa never holds your money.</p></details>
-    <details><summary><span data-bm>Kalau penyewa tak pandai guna app?</span><span data-en>What if a tenant isn't good with apps?</span></summary><p data-bm>Anda boleh rekod bayaran sendiri dan muat naik slip bagi pihak penyewa. Resit tetap dijana dan masuk ke laporan.</p><p data-en>You can record the payment yourself and upload the slip on their behalf. A receipt is still issued and it goes into your reports.</p></details>
+    <details><summary><span data-bm>Kalau penyewa tak pandai guna app?</span><span data-en>What if a tenant isn't good with apps?</span></summary><p data-bm>Penyewa cuma hantar bukti bayaran kepada anda. Tekan <b>Bayaran manual</b>, pilih kaedah (pindahan bank, Touch 'n Go, deposit tunai, tunai) dan muat naik slip. Resit tetap dijana dan masuk ke laporan.</p><p data-en>They just send you the proof. Tap <b>Manual payment</b>, choose the method (bank transfer, Touch 'n Go, cash deposit, cash) and upload the slip. A receipt is still issued and it goes into your reports.</p></details>
+    <details><summary><span data-bm>Kalau penyewa terbayar lebih?</span><span data-en>What if a tenant overpays?</span></summary><p data-bm>Lebihan dibawa ke bulan depan sebagai kredit secara automatik. Penyewa nampak nota bahawa lebihan akan ditolak daripada sewa bulan depan.</p><p data-en>The extra is carried to next month as credit automatically. The tenant sees a note that it will be deducted from next month's rent.</p></details>
     <details><summary><span data-bm>Boleh guna untuk bilik sewa atau banyak rumah?</span><span data-en>Does it work for rooms or multiple houses?</span></summary><p data-bm>Boleh. Daftar setiap rumah dan biliknya di tab Hartanah. Anda nampak bilik kosong, kadar penghunian dan sewa yang hilang, dan laporan cukai dipecahkan ikut rumah.</p><p data-en>Yes. Register each house and its rooms in the Properties tab. You'll see vacant rooms, occupancy and lost rent, and the tax report is broken down by property.</p></details>
     <details><summary><span data-bm>Boleh rekod bil air, elektrik, IWK & maintenance?</span><span data-en>Can I record water, electricity, IWK & maintenance bills?</span></summary><p data-bm>Boleh. Rekod beberapa bil sekali gus ikut rumah, atau tetapkan bil tetap (IWK, maintenance, internet) sebagai bil berulang yang direkod automatik setiap bulan. Semua bil ditolak dalam laporan pendapatan sewa bersih.</p><p data-en>Yes. Record several bills at once per property, or set fixed bills (IWK, maintenance, internet) as recurring bills recorded automatically every month. All bills are deducted in the net rental income report.</p></details>
     <details><summary><span data-bm>Penyewa boleh hantar slip PDF?</span><span data-en>Can tenants send a PDF slip?</span></summary><p data-bm>Boleh. Gambar, screenshot atau PDF dari app bank semuanya diterima. PDF ditukar kepada gambar supaya mudah disemak.</p><p data-en>Yes. Images, screenshots or PDFs from the bank app are all accepted. PDFs are converted to an image so they're easy to review.</p></details>
